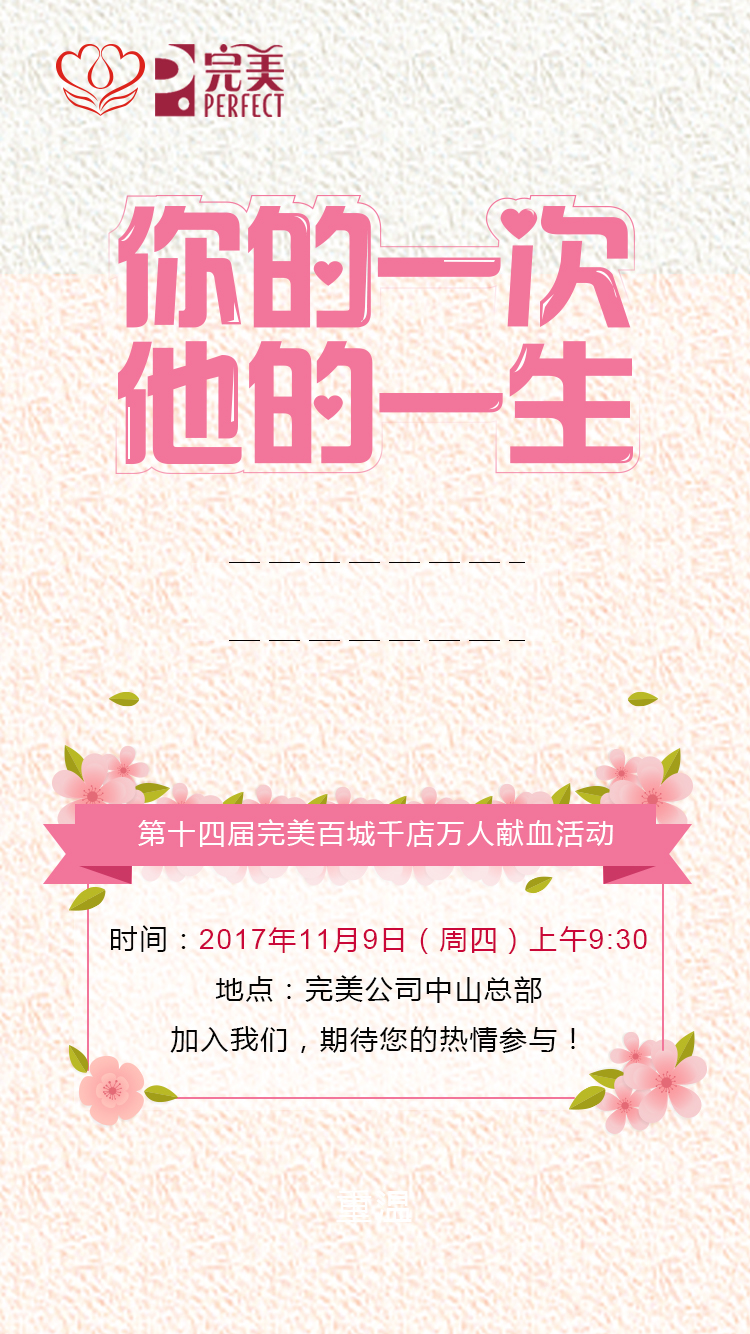
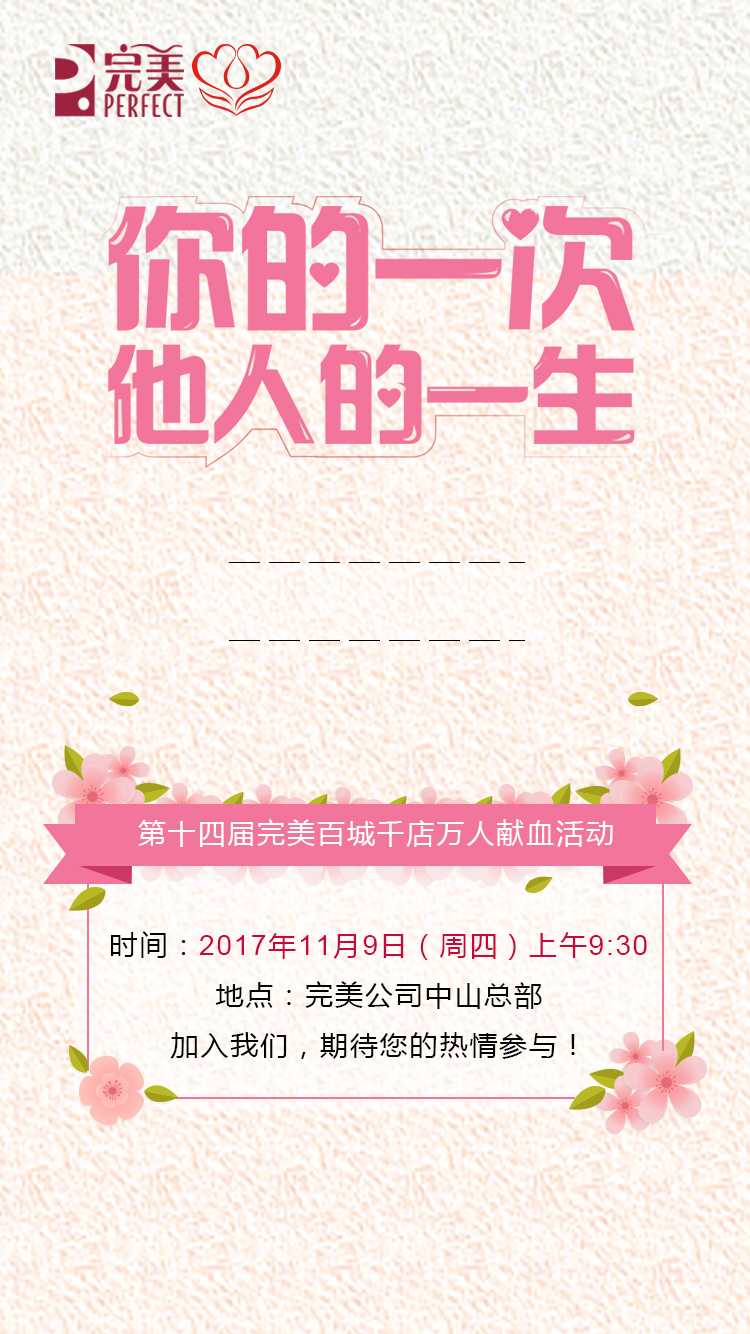
xx

diff --git a/js/resource.js b/js/resource.js
@@ -13,7 +13,7 @@ var gameImg = [
 	{path:'img/lifes.png?V=2',type:'img',name:'lifes'},//ta
 	{path:'img/bheart.png',type:'img',name:'bheart'},//心
 	{path:'img/music.png',type:'img',name:'music'},//音乐
-	{path:'img/logo.png?v=2',type:'img',name:'logo'},//完美logo
+	{path:'img/logo.png?v=3',type:'img',name:'logo'},//完美logo
 	{path:'img/hand.png',type:'img',name:'hand'},//手
 	{path:'img/hand2.png',type:'img',name:'hand2'},//手
 	{path:'img/person.png',type:'img',name:'person'},//人
@@ -57,7 +57,7 @@ var gameImg = [
 	{path:'img/share.png?v=2',type:'img',name:'share'},//分享
 	{path:'img/shareTitle.png?v=2',type:'img',name:'shareTitle'},//分享语
 	{path:'img/transition.jpg?v=2',type:'img',name:'transition'},//过度页面
-	{path:'img/lastBkg.jpg?V=2',type:'img',name:'lastBkg'},//背景
+	{path:'img/lastBkg.jpg?V=3',type:'img',name:'lastBkg'},//背景
 	{path:'img/c1.png',type:'img',name:'c1'},//c1
 	{path:'img/c2.png',type:'img',name:'c2'},//c2
 	{path:'img/c3.png',type:'img',name:'c3'},//c3

diff --git a/index.html b/index.html
@@ -115,7 +115,7 @@
             });
         });
     </script>
-		<script type="text/javascript" src="js/resource.js?V=8" ></script>
+		<script type="text/javascript" src="js/resource.js?V=9" ></script>
 		<script type="text/javascript" src="js/bemzjGame.js?v=1" ></script>
 		<script type="text/javascript" src="js/main.js?V=6" ></script>
 
